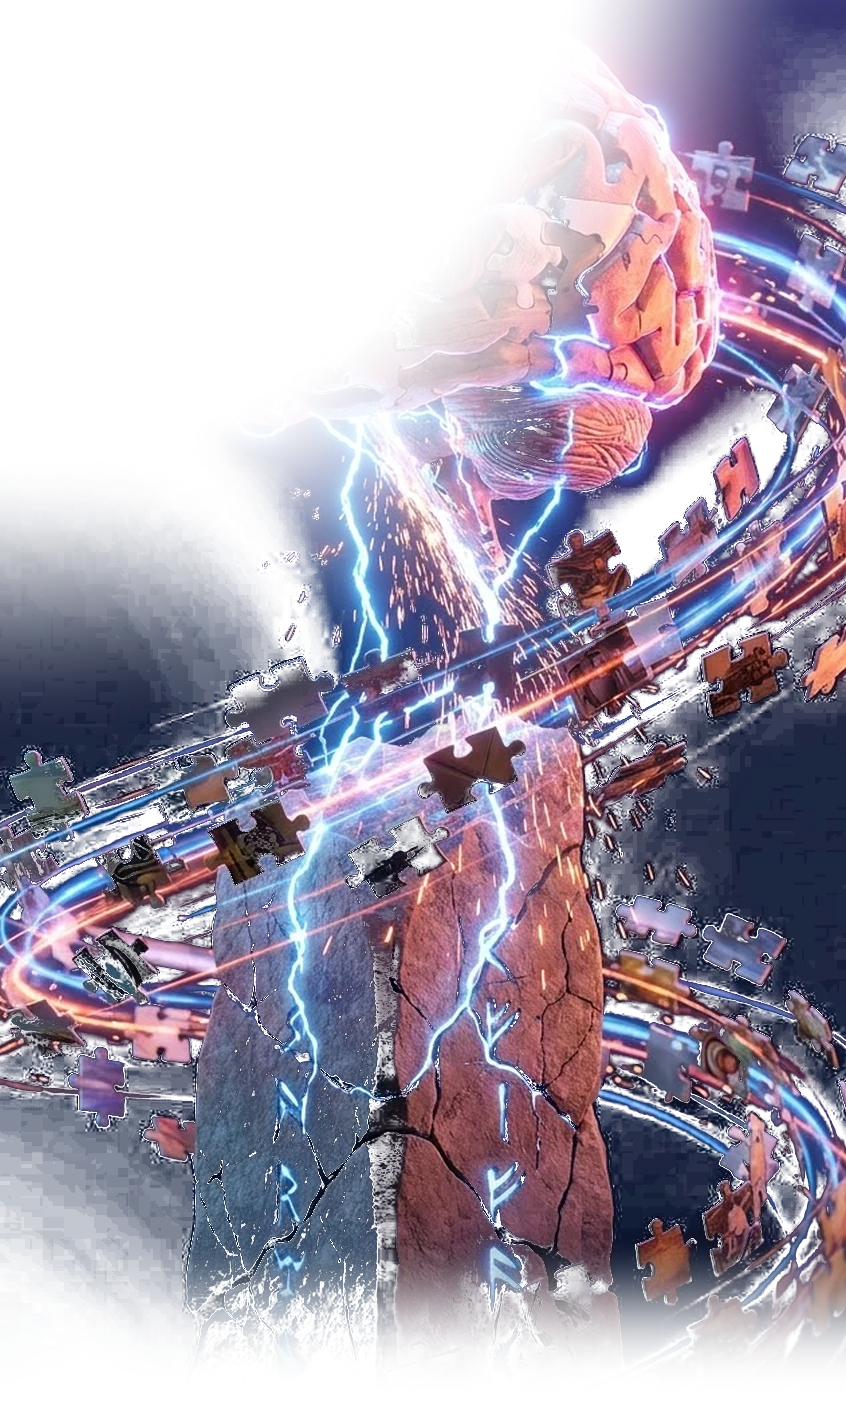
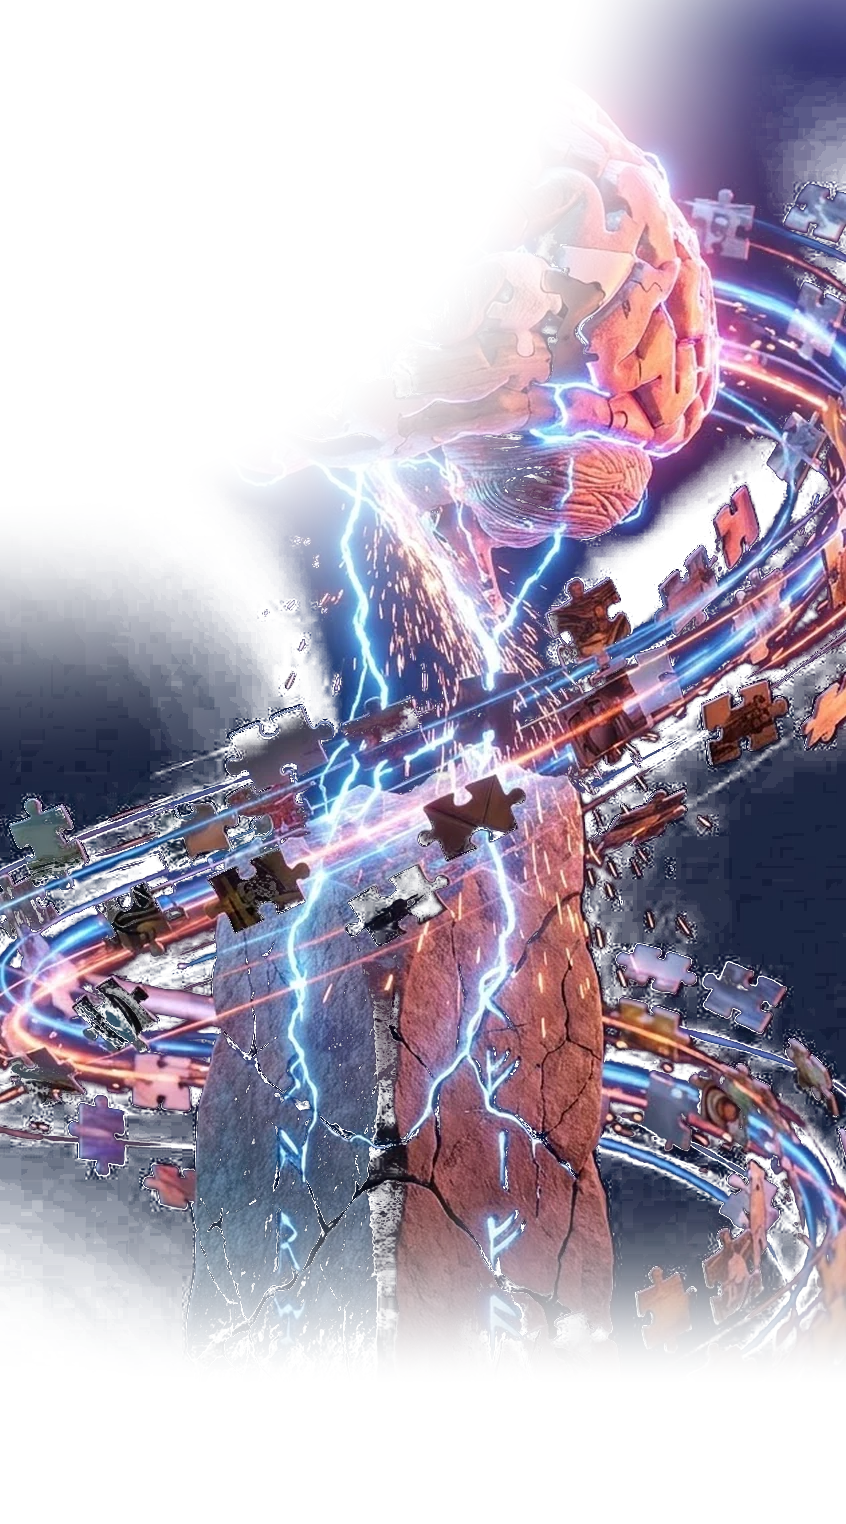
Games page: text and art a little lower, each scene ends behind the middle planet
Claude-Session: https://claude.ai/code/session_01M1zZESrXzYjoRQjWUzRNCF

diff --git a/src/features/games/GamePage.tsx b/src/features/games/GamePage.tsx
@@ -56,7 +56,7 @@ export function GamePage({ game, j, pos, active }: { game: Game; j: number; pos:
 }
 
 const s = StyleSheet.create({
-  info: { position: 'absolute', left: u(16), right: u(16), top: u(22) },
+  info: { position: 'absolute', left: u(16), right: u(16), top: u(36) },
   ttl: { fontFamily: F.display, fontSize: u(32), lineHeight: u(28.8), letterSpacing: u(-0.64) },
   sub: { marginTop: u(8), fontFamily: F.displayItalic, fontSize: u(13), lineHeight: u(17) },
   desc: { marginTop: u(7), marginBottom: u(2), maxWidth: u(190), fontFamily: F.body, fontSize: u(11), lineHeight: u(15.95) },

diff --git a/src/features/games/fit.ts b/src/features/games/fit.ts
@@ -9,7 +9,7 @@ export const ARC_DROP = 46; // 2026-10-13: ring, planets and dots only (not the 
 export const DOTS_TOP = 398 + SHIFT; // screen y of the swipe dots
 export const ART_B = DOTS_TOP + 66; // bottom of the art box (fitArc: dots top + 66)
 // 2026-10-05: the ring's fill is gone, so each drawing moves down and fades just above the nav bar.
-export const ART_END = 540;
+export const ART_END = 580; // 2026-10-18: art runs on under the arc to the dock
 const DROP = ART_END - ART_B;
 const ART_T = 150;
 export const RING_R = 520;

diff --git a/scripts/bake-game-art-full.py b/scripts/bake-game-art-full.py
@@ -15,11 +15,12 @@ import numpy as np
 from PIL import Image
 
 ROOT = os.path.dirname(os.path.dirname(os.path.abspath(__file__)))
-W, SH, TOP, END = 282, 615, 72, 540  # design screen, body top, art end (src/features/games/fit.ts)
+W, SH, TOP, END = 282, 615, 72, 580  # design screen, body top, art end (src/features/games/fit.ts)
 SCALE = 3
 NUDGE = 0.7  # 0 = keep the left edge, 1 = keep the right edge, when the picture is wider than the screen
-UP = 30  # the scene sits this much higher than the picture's own place (2026-10-18: lifted, more overlap)
-CLEAR = 540  # screen y where the art is fully gone: the tall scenes now run down to the arc
+PLANET_Y = 524  # screen y of the middle planet's centre on the arc (fit.ts: BODY_TOP + RING_CY - RING_R - 2)
+TEXT_DROP = 14  # the title block sits this much lower than when the curve was tuned (2026-10-18)
+CLEAR = 580  # screen y where the window ends; it sits under the dock
 
 # Scene band in picture px (of 1376): fade in over [a, b] at the top and out over [c, d] at the bottom.
 # a/d sit on (or just inside) any hard band edge, so no straight line survives.
@@ -48,7 +49,14 @@ for k, (a, b, c, d) in BAND.items():
     pw, ph = src.size
     s = max(W / pw, SH / ph)  # design px per picture px
     ox = (W - pw * s) * NUDGE
-    oy = (SH - ph * s) / 2 - UP
+    oy = (SH - ph * s) / 2
+    # Yazan 2026-10-18: each scene's lowest part lands behind the middle planet, wherever the overlap ends up
+    pix = np.asarray(src).astype(np.float64) / 255
+    sky0 = np.median(pix[:20].reshape(-1, 3), axis=0)
+    rows = np.where((np.linalg.norm(pix - sky0, axis=2) > 0.25)[:, 300:].mean(axis=1) > 0.06)[0]
+    bottom = rows.max()
+    oy = PLANET_Y - bottom * s
+    c, d = bottom - 140, bottom + 30  # the scene's foot fades out behind the planet
     ow, oh = W * SCALE, (END - TOP) * SCALE
     X, Y = np.meshgrid((np.arange(ow) + 0.5) / SCALE, TOP + (np.arange(oh) + 0.5) / SCALE)
     # sample the picture: resize the whole thing, then crop the body window
@@ -58,7 +66,7 @@ for k, (a, b, c, d) in BAND.items():
     rgb = np.asarray(canvas).astype(np.float64) / 255
     py = (Y - oy) / s  # picture row under each pixel
     band = smooth(py, a + 6, b) * (1 - smooth(py, c, d - 6))
-    curve = smooth(np.hypot(X / W, Y / (0.52 * SH)), 0.7, 1.0)  # clears the title corner, scene tucks under the text
+    curve = smooth(np.hypot(X / W, (Y - TEXT_DROP) / (0.52 * SH)), 0.7, 1.0)  # clears the title corner, scene tucks under the text
     nav = 1 - smooth(Y, CLEAR - 56, CLEAR)
     # the picture's own navy sky melts away, so no tinted box is left where it meets the app navy
     sky = np.median(np.asarray(src)[:20].reshape(-1, 3), axis=0) / 255
